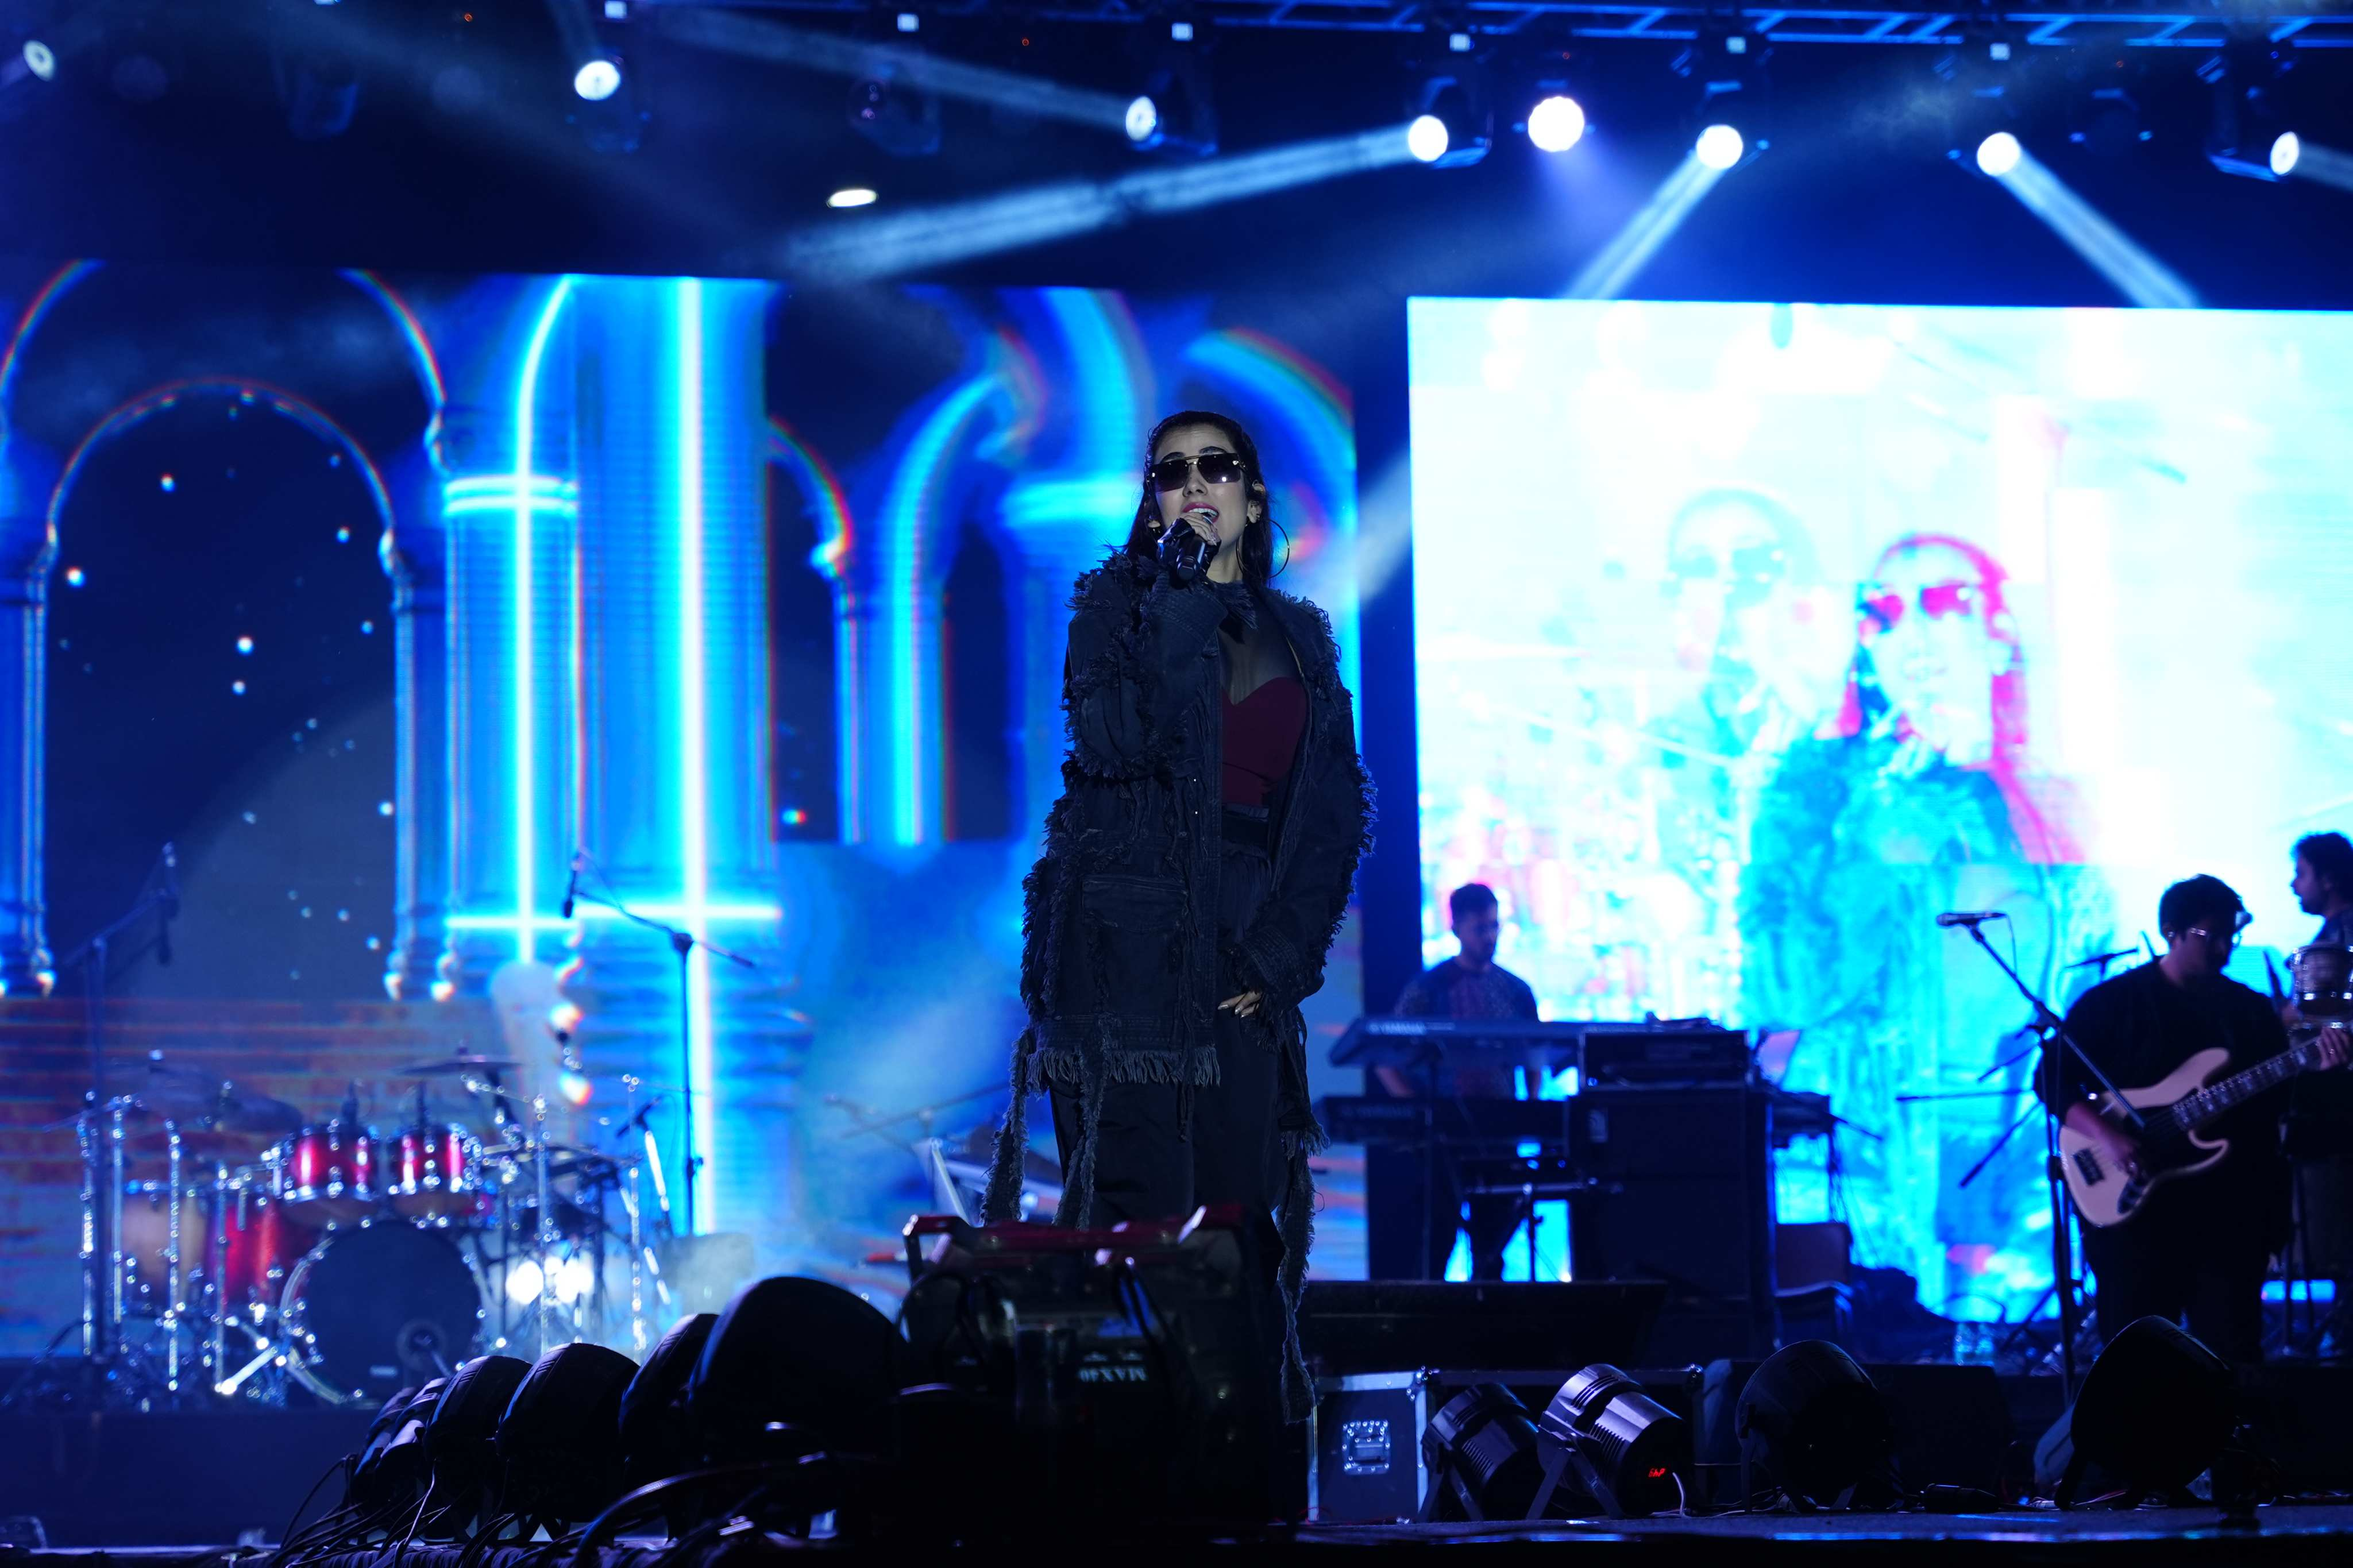
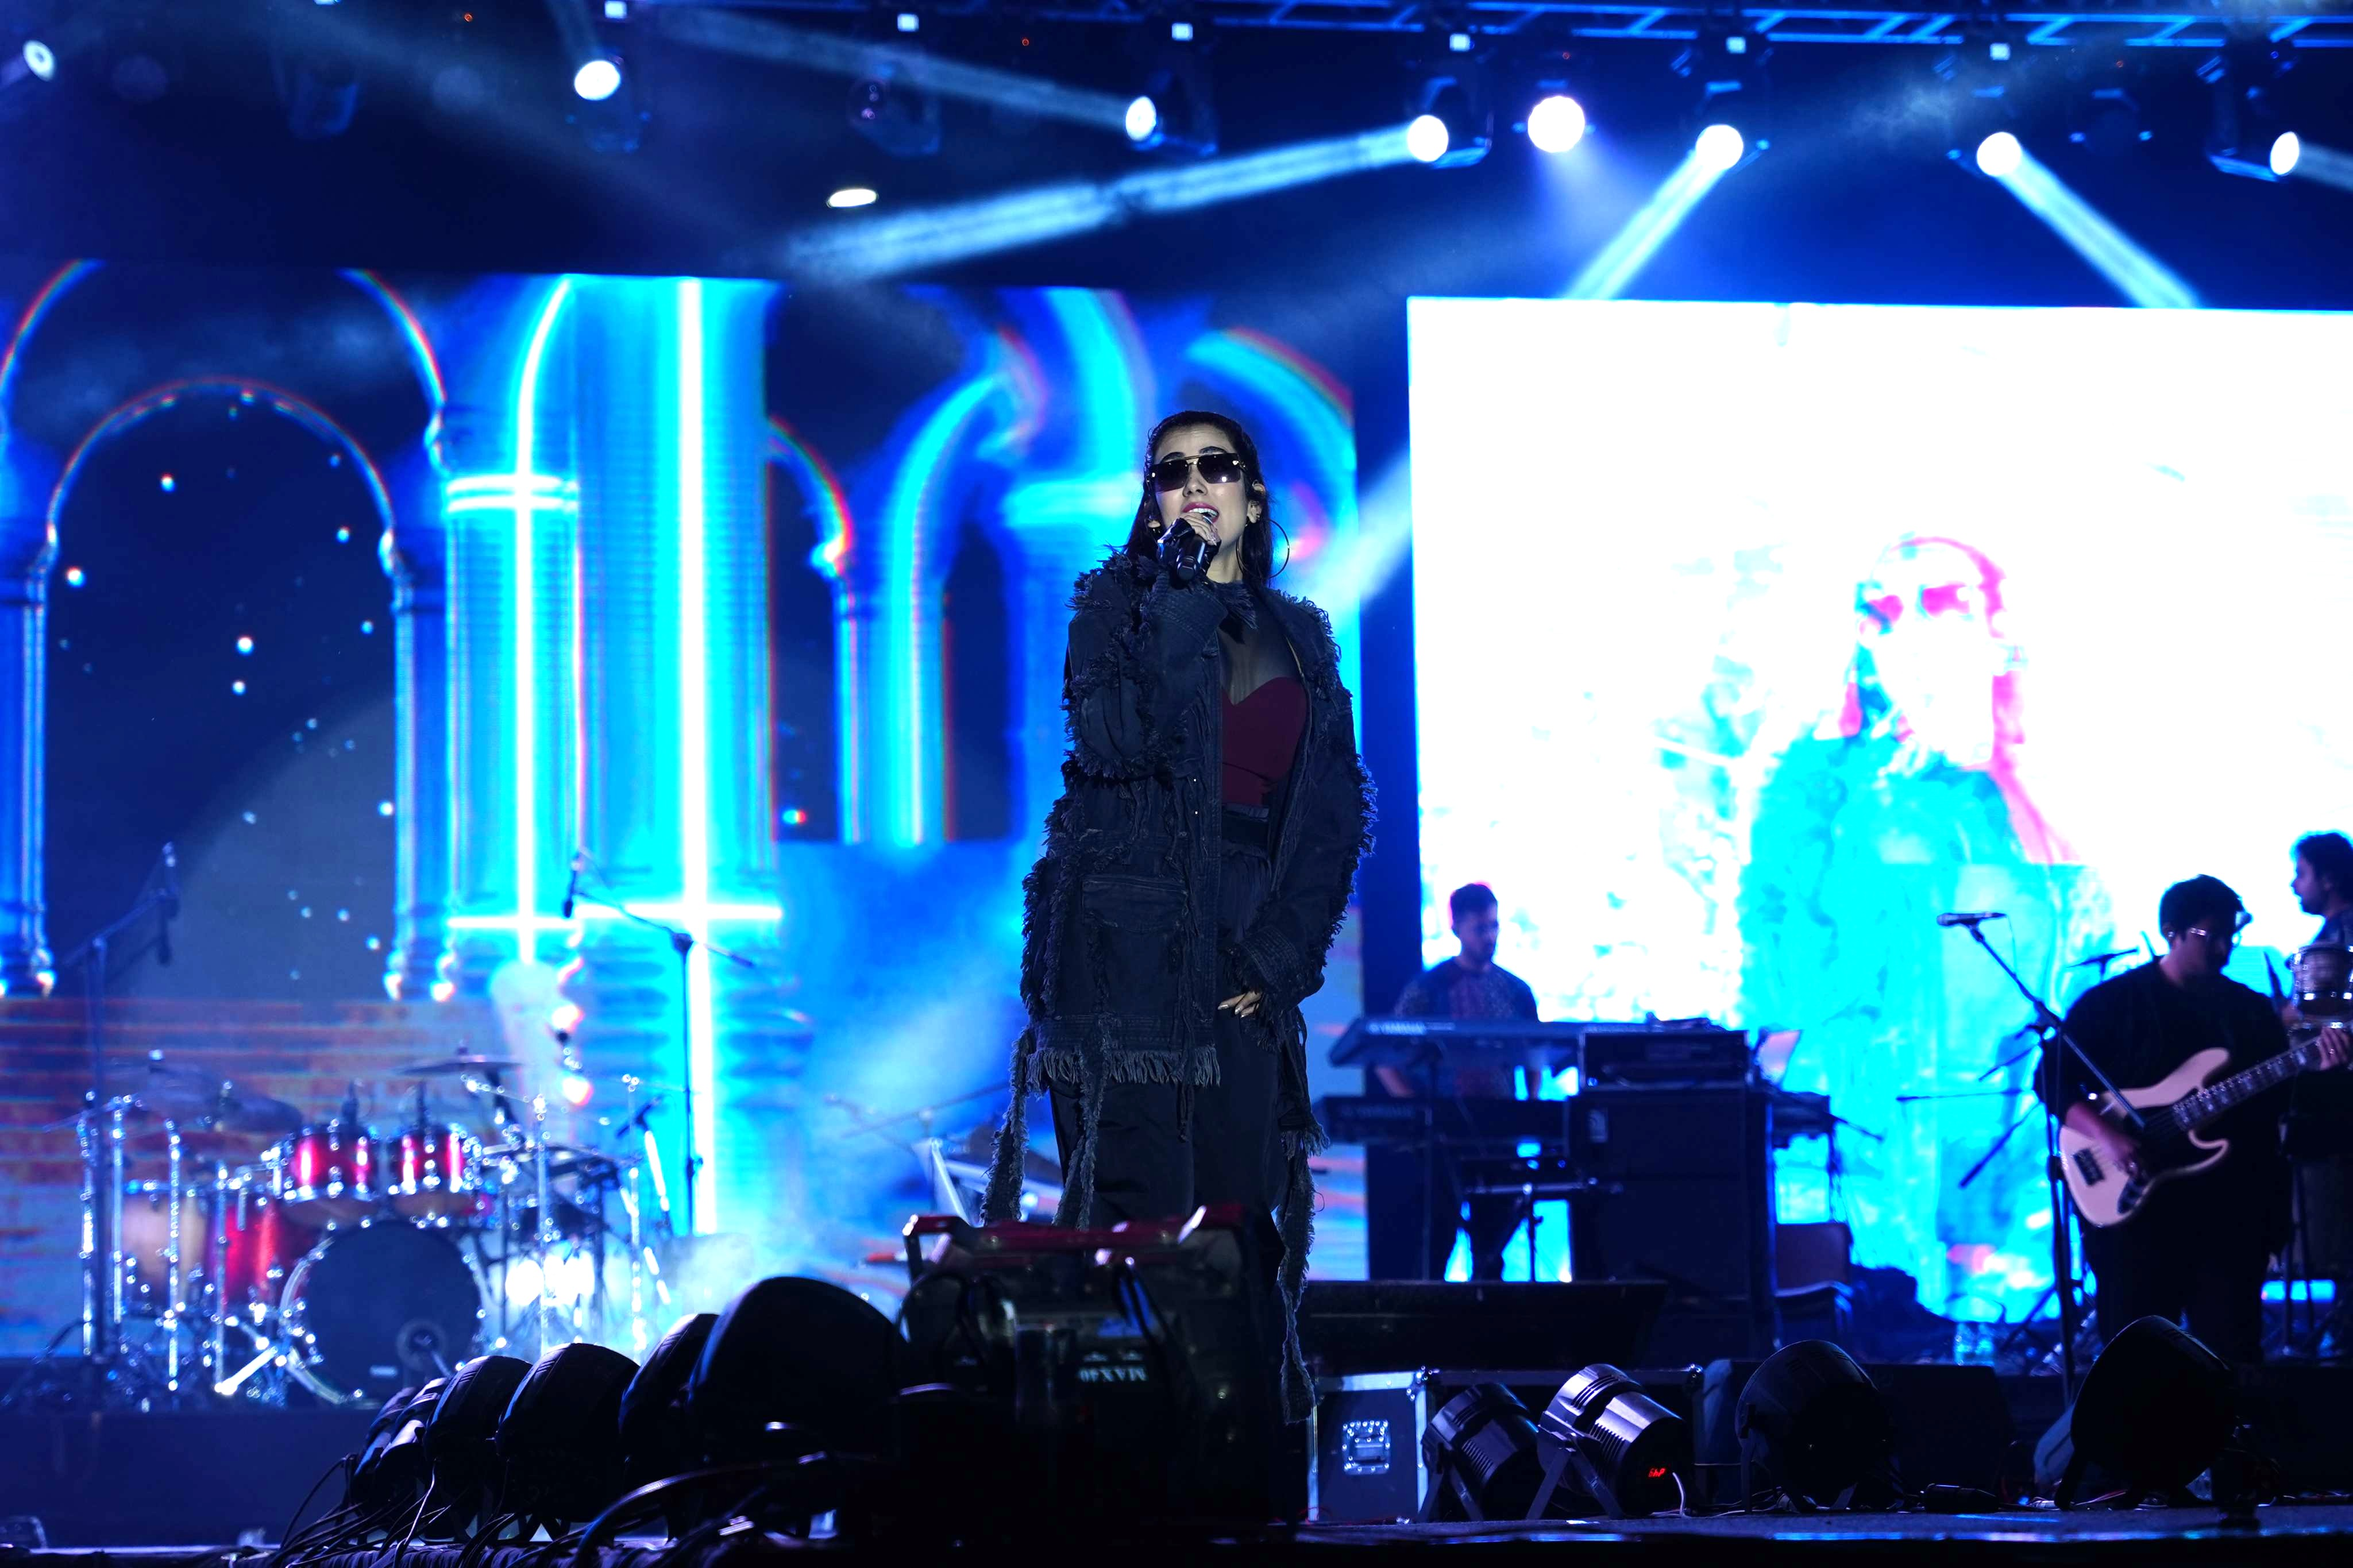
added cultural fest images new s

diff --git a/src/constants.ts b/src/constants.ts
@@ -86,24 +86,24 @@ export const ALBUMS: Album[] = [
     slug: "cultural-fests", 
     category: "Events", 
     // FIXED: Trying a brighter photo and uppercase .JPG to match your computer
-    coverImage: "/cf_006.JPG", 
+    coverImage: "/cf_048.JPG", 
     images: [
-      "/cf_001.jpg", "/cf_002.jpg", "/cf_003.jpg", "/cf_004.jpg", "/cf_005.jpg", 
-      "/cf_006.jpg", "/cf_007.jpg", "/cf_008.jpg", "/cf_009.jpg", "/cf_010.jpg",
-      "/cf_011.jpg", "/cf_012.jpg", "/cf_013.jpg", "/cf_014.jpg", "/cf_015.jpg",
-      "/cf_016.jpg", "/cf_017.jpg", "/cf_018.jpg", "/cf_019.jpg", "/cf_020.jpg",
-      "/cf_021.jpg", "/cf_022.jpg", "/cf_023.jpg", "/cf_024.jpg", "/cf_025.jpg",
-      "/cf_026.jpg", "/cf_027.jpg", "/cf_028.jpg", "/cf_029.jpg", "/cf_030.jpg",
-      "/cf_031.jpg", "/cf_032.jpg", "/cf_033.jpg", "/cf_034.jpg", "/cf_035.jpg",
-      "/cf_036.jpg", "/cf_037.jpg", "/cf_038.jpg", "/cf_039.jpg", "/cf_040.jpg",
-      "/cf_041.jpg", "/cf_042.jpg", "/cf_043.jpg", "/cf_044.jpg", "/cf_045.jpg",
-      "/cf_046.jpg", "/cf_047.jpg", "/cf_048.jpg", "/cf_049.jpg", "/cf_050.jpg",
-      "/cf_051.jpg", "/cf_052.jpg", "/cf_053.jpg", "/cf_054.jpg", "/cf_055.jpg",
-      "/cf_056.jpg", "/cf_057.jpg", "/cf_058.jpg", "/cf_059.jpg", "/cf_060.jpg",
-      "/cf_061.jpg", "/cf_062.jpg", "/cf_063.jpg", "/cf_064.jpg", "/cf_065.jpg",
-      "/cf_066.jpg", "/cf_067.jpg", "/cf_068.jpg", "/cf_069.jpg", "/cf_070.jpg",
-      "/cf_071.jpg", "/cf_072.jpg", "/cf_073.jpg", "/cf_074.jpg", "/cf_075.jpg",
-      "/cf_076.jpg", "/cf_077.jpg", "/cf_078.jpg"
+      "/cf_001.JPG", "/cf_002.JPG", "/cf_003.JPG", "/cf_004.JPG", "/cf_005.JPG", 
+      "/cf_006.JPG", "/cf_007.JPG", "/cf_008.JPG", "/cf_009.JPG", "/cf_010.JPG",
+      "/cf_011.JPG", "/cf_012.JPG", "/cf_013.JPG", "/cf_014.JPG", "/cf_015.JPG",
+      "/cf_016.JPG", "/cf_017.JPG", "/cf_018.JPG", "/cf_019.JPG", "/cf_020.JPG",
+      "/cf_021.JPG", "/cf_022.JPG", "/cf_023.JPG", "/cf_024.JPG", "/cf_025.JPG",
+      "/cf_026.JPG", "/cf_027.JPG", "/cf_028.JPG", "/cf_029.JPG", "/cf_030.JPG",
+      "/cf_031.JPG", "/cf_032.JPG", "/cf_033.JPG", "/cf_034.JPG", "/cf_035.JPG",
+      "/cf_036.JPG", "/cf_037.JPG", "/cf_038.JPG", "/cf_039.JPG", "/cf_040.JPG",
+      "/cf_041.JPG", "/cf_042.JPG", "/cf_043.JPG", "/cf_044.JPG", "/cf_045.JPG",
+      "/cf_046.JPG", "/cf_047.JPG", "/cf_048.JPG", "/cf_049.JPG", "/cf_050.JPG",
+      "/cf_051.JPG", "/cf_052.JPG", "/cf_053.JPG", "/cf_054.JPG", "/cf_055.JPG",
+      "/cf_056.JPG", "/cf_057.JPG", "/cf_058.JPG", "/cf_059.JPG", "/cf_060.JPG",
+      "/cf_061.JPG", "/cf_062.JPG", "/cf_063.JPG", "/cf_064.JPG", "/cf_065.JPG",
+      "/cf_066.JPG", "/cf_067.JPG", "/cf_068.JPG", "/cf_069.JPG", "/cf_070.JPG",
+      "/cf_071.JPG", "/cf_072.JPG", "/cf_073.JPG", "/cf_074.JPG", "/cf_075.JPG",
+      "/cf_076.JPG", "/cf_077.JPG", "/cf_078.JPG"
     ]
   },
   { 
